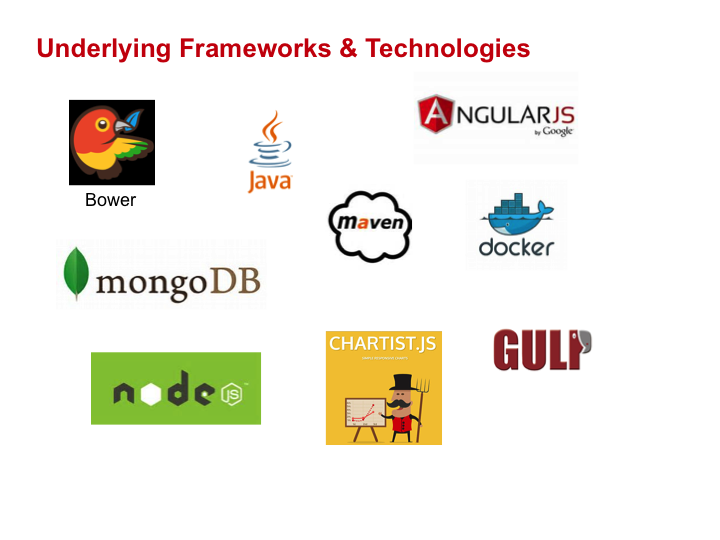
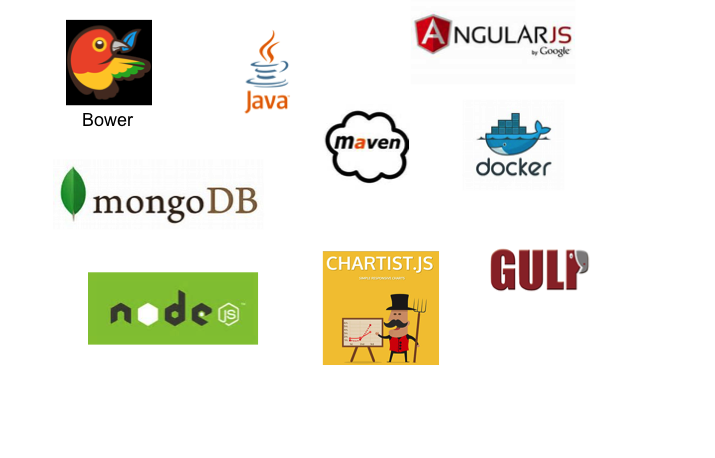
media and markdown files for readme

diff --git a/pages/hygieia/architecture.md b/pages/hygieia/architecture.md
@@ -6,27 +6,16 @@ summary:
 sidebar: hygieia_sidebar
 permalink: architecture.html
 ---
-The following diagram gives an overview of Hygieia Architecture:
+The following diagram gives an overview of Hygieia's Architecture:
 
-## Database Layer
+![Architecture](../Hygieia/media/images/architecture.png)
 
-Hygieia uses MongoDB as the database for storage and retrieval of data.
-
-## UI Layer
-
-The UI Layer provides User Interface to view and interact with the configured DevOps Tools. The Hygieia dashboard requires installation of:
-- NodeJS
-- npm
-- gulp
-- bower
-
-## API Layer
-
-The API Layer contains all common REST API services that work with source data system data, 
-  which has already been collected by other service tasks. This is an abstraction from the local data layer, 
-  and the source system data layer.
-
-## Collectors
+| Layer | Description |
+|-------|-------------|
+| Database Layer | Hygieia uses MongoDB as the database for storage and retrieval of data. |
+| API Layer | Hygieia API contains all the common REST API services that work with the source system data (collected by service tasks). The Hygieia API layer is an abstraction of the local data layer and the source system data layer. |
+| UI Layer | The UI Layer represents Hygieia's front-end and contains GUI elements for users to view and configure the dashboard. |
+| Collectors Layer | The Tool Collectors fetch data from your DevOps tools and reflect this data on your Hygieia Dashboard. You can choose to install the collectors applicable to your DevOps tool set from the Hygieia Collectors Inventory. |
 
 
 

diff --git a/pages/hygieia/getting_started.md b/pages/hygieia/getting_started.md
@@ -13,7 +13,18 @@ redirect_from:
 
 ## Overview  
 Hygieia is a single, configurable, easy-to-use dashboard to visualize near real-time status of the entire delivery pipeline. The health of the continuous delivery pipeline, from code commit to production deployment, with all the necessary information around health and quality of the software, is essential for any DevOps Organization.
-	
+
+## Objectives
+* Automate Development Environment Setup
+* Continuous Performance Measurement and Visualization
+* Unified DevOps Dashboard
+
+## Features
+- **Visual Delivery Pipeline** - Use the pipeline view to visualize the status of the entire delivery pipeline and the components’ lifecycle progression.
+- **Team Dashboard** - Monitor work items, code repo, builds, quality items (unit tests, security coverage), and deployments in a single dashboard.
+- **Real-time Status** - Monitor quality, productivity, and work in process on a real-time basis within the dashboard.
+- **Configurable View** - Set the dashboard to display the widgets that matter most to your project, which in turn amplifies and shortens the feedback loop.
+- **Open Source** - Hygieia is open source and free for everyone to use. We encourage external users to contribute to the project.
 
 ## Audience  
 The Installation Plan provides installation and configuration procedures for every part of the Hygieia system. This document describes the correct order for installing the component/tier instances and performing basic configuration.

diff --git a/pages/hygieia/contribute.md b/pages/hygieia/contribute.md
@@ -1,0 +1,17 @@
+---
+title: Contribution Guidelines
+tags: 
+toc: false
+sidebar: hygieia_sidebar
+permalink: contribute.html
+---
+We welcome Your interest in Capital One’s Open Source Projects (the “Project”). Any Contributor to the Project must accept and sign an Agreement indicating agreement to the license terms below. Except for the license granted in this Agreement to Capital One and to recipients of software distributed by Capital One, You reserve all right, title, and interest in and to Your Contributions; this Agreement does not impact Your rights to use Your own Contributions for any other purpose.
+
+- [**Individual Agreement**](https://docs.google.com/forms/d/19LpBBjykHPox18vrZvBbZUcK6gQTj7qv1O5hCduAZFU/viewform)
+- [**Corporate Agreement**](https://docs.google.com/forms/d/e/1FAIpQLSeAbobIPLCVZD_ccgtMWBDAcN68oqbAJBQyDTSAQ1AkYuCp_g/viewform?usp=send_form)
+
+This project adheres to the [Open Code of Conduct][code-of-conduct]. By participating, you are expected to honor this code.
+
+[code-of-conduct]: http://www.capitalone.io/codeofconduct/
+
+ 

diff --git a/pages/hygieia/screenshots.md b/pages/hygieia/screenshots.md
@@ -1,0 +1,29 @@
+---
+title: Screenshots
+tags:
+keywords:
+summary:
+sidebar: hygieia_sidebar
+permalink: screenshots.html
+---
+Screenshots of various Hygieia dashboard views:
+
+**Widget View:**
+
+![WidgetView](../Hygieia/media/images/Screenshots/hygiea-screenshot.jpg)
+
+**Pipeline View:**
+
+![PipelineView](../Hygieia/media/images/Screenshots/pipeline_view.png)
+
+**Product View:**
+
+![ProductView](../Hygieia/media/images/Screenshots/hygieia-product-dashboard.png)
+
+**Cloud - Overview:**
+
+![CloudOverview](../Hygieia/media/images/Screenshots/Cloud-Overview.png)
+
+**Cloud - Detail View:**
+
+![DetailView](../Hygieia/media/images/Screenshots/Cloud-Detail.png)

diff --git a/pages/hygieia/contact.md b/pages/hygieia/contact.md
@@ -11,7 +11,4 @@ We would love to hear from you!
 
 Click [here](https://gitter.im/capitalone/Hygieia) to connect with us on Gitter.
 
-#### Email Us
-
-To email your questions, simply click the **Feedback** button in the top navigation bar.
  

diff --git a/pages/hygieia/framework.md b/pages/hygieia/framework.md
@@ -1,0 +1,11 @@
+---
+title: Underlying Framework and Technologies
+tags:
+keywords:
+summary:
+toc: false
+sidebar: hygieia_sidebar
+permalink: framework.html
+---
+
+![Framework](../Hygieia/media/images/overview/4.png)
